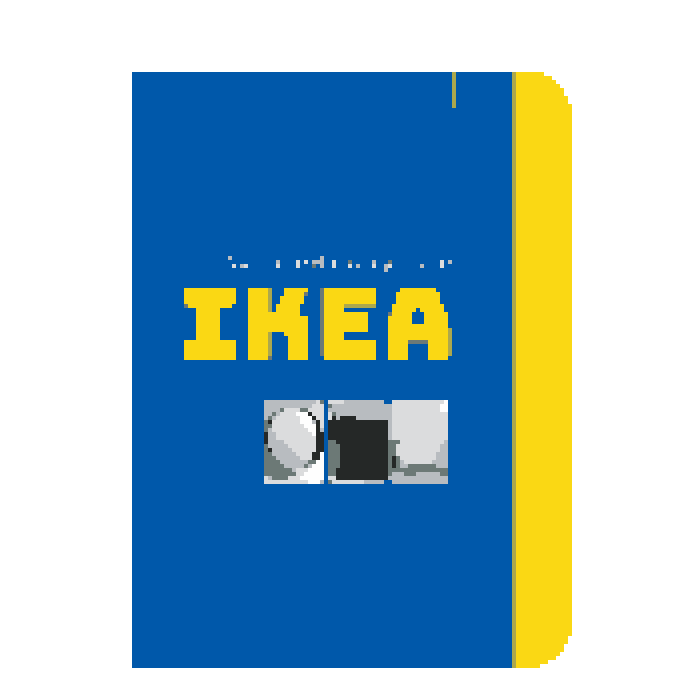
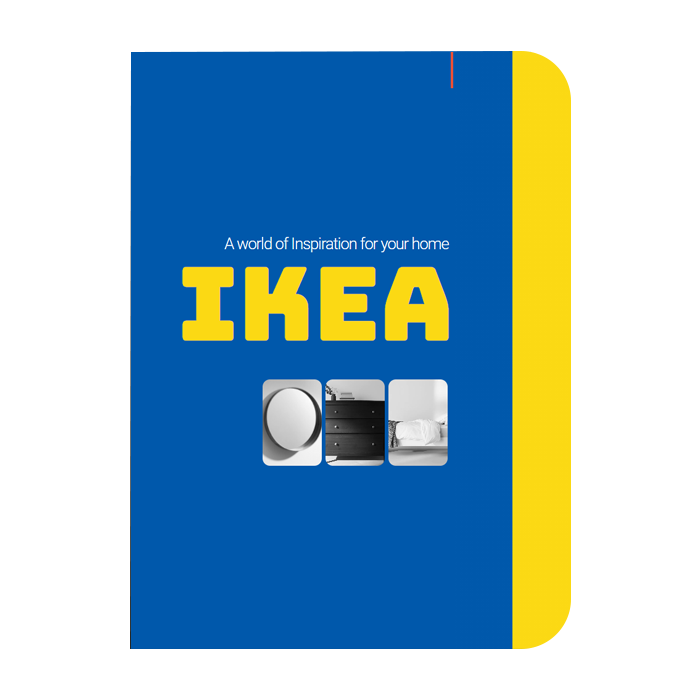
upload dotImg_testt_6/27

Changed region(s): [[0.24, 0.33, 0.66, 0.69], [0.18, 0.06, 0.84, 0.96], [0.81, 0.87, 0.84, 0.9]]

diff --git a/src/Container.js b/src/Container.js
@@ -9,8 +9,7 @@ export default function Container() {
     for (let i = 0; i < $containerUl.length; i++) {
       Object.values($containerUl[i].children).map((item) => {
         if (Preview[item.id]) {
-          // item.innerHTML = Preview[item.id].name;
-          item.style.backgroundImage = `url(${Preview[item.id].img})`;
+          item.innerHTML = `<img src="${Preview[item.id].img}" alt="">`;
         }
       });
     }

diff --git a/src/scss/select.scss b/src/scss/select.scss
@@ -29,6 +29,12 @@
       filter: saturate(0);
       image-rendering: pixelated;
 
+      img {
+        display: block;
+        margin: 0 auto;
+        height: 100%;
+      }
+
       &.active {
         filter: saturate(1);
       }
